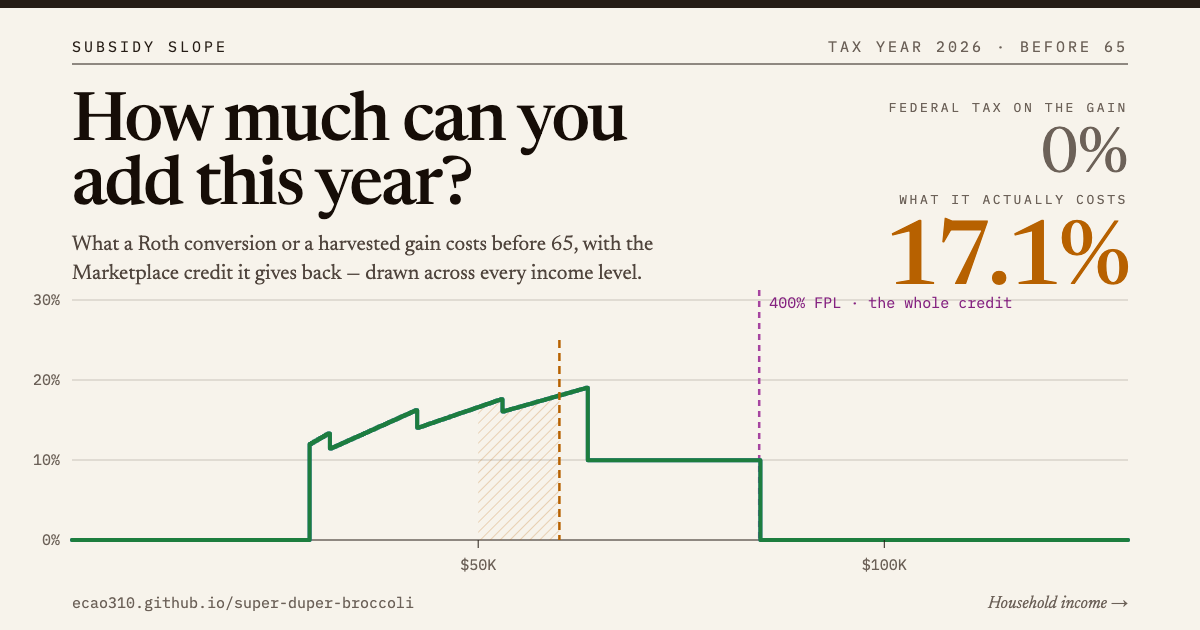
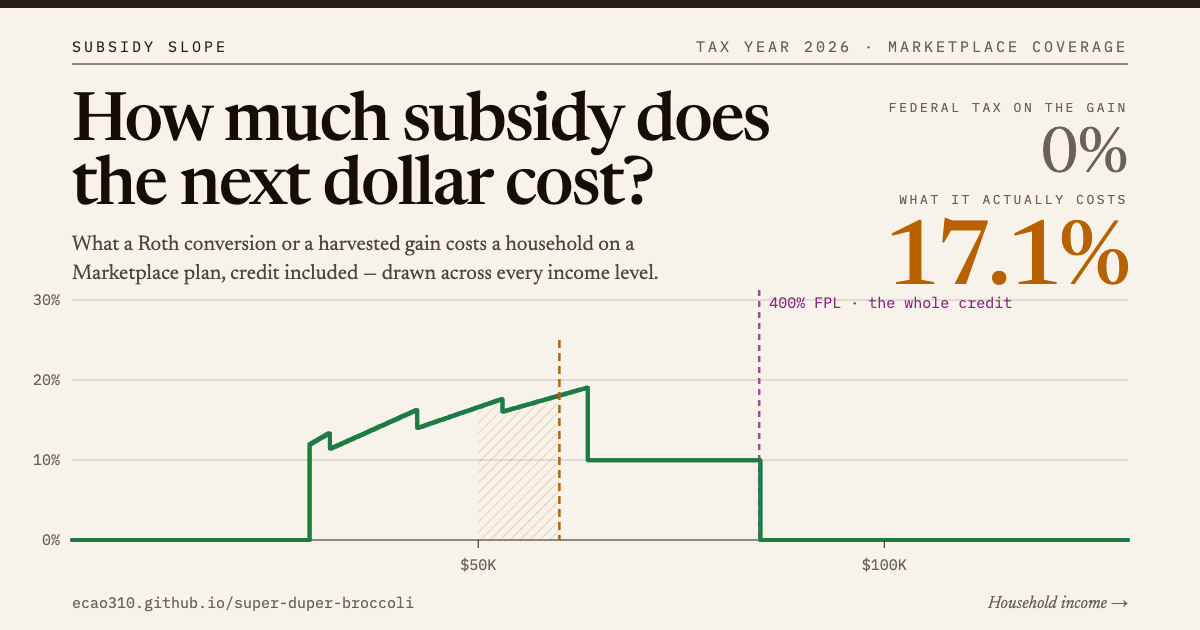
reframe to aca

diff --git a/index.html b/index.html
@@ -22,13 +22,13 @@
   <link rel="stylesheet"
     href="https://fonts.googleapis.com/css2?family=Newsreader:ital,opsz,wght@0,6..72,400..700;1,6..72,400..700&amp;family=IBM+Plex+Mono:wght@300;400;500;600&amp;display=swap" />
 
-  <title>Income Taxes in Early Retirement — Subsidy Slope</title>
+  <title>The ACA Subsidy Slope</title>
   <!-- The search result: a different surface from the share card below. It
        ends on the list of sections it promises, and `the search snippet` in
        src/guards/meta.test.ts reads that list back out and looks for each one
        in a heading the page actually renders. -->
   <meta name="description"
-    content="What a Roth conversion or a harvested gain really costs before 65, for your own household: the premium tax credit's slope, the 400% cliff and the floor.">
+    content="What a Roth conversion or a harvested gain really costs a household on a Marketplace plan: the premium tax credit's slope, the 400% cliff and the floor.">
 
   <!-- What the link looks like when it is sent rather than opened. The card
        is deliberately not the reader's own household: this is static files
@@ -38,21 +38,21 @@
        points at its own copy rather than production's. -->
   <meta property="og:type" content="website" />
   <meta property="og:site_name" content="Subsidy Slope" />
-  <meta property="og:title" content="How Much Can You Add This Year?" />
+  <meta property="og:title" content="How Much Subsidy Does the Next Dollar Cost?" />
   <meta property="og:description"
-    content="Before 65, every dollar you convert or harvest gives back a slice of your Marketplace credit — about 17 cents for a couple in the middle of the table, and all of it at 400% of the poverty line. Priced for your own household." />
+    content="Every dollar you convert or harvest while you buy coverage on the Marketplace gives back a slice of your premium tax credit — about 17 cents for a couple in the middle of the table, and all of it at 400% of the poverty line. Priced for your own household." />
   <meta property="og:url" content="https://ecao310.github.io%BASE_URL%" />
   <meta property="og:image" content="https://ecao310.github.io%BASE_URL%og-cover.png" />
   <meta property="og:image:type" content="image/png" />
   <meta property="og:image:width" content="1200" />
   <meta property="og:image:height" content="630" />
   <meta property="og:image:alt"
-    content="A chart of the all-in rate on the next dollar of household income before 65: nothing under the Medicaid floor, a sawtooth climbing from 11% to 19% through the applicable-percentage table, a 10% plateau from 300% to 400% of the poverty line, and a cliff at 400%." />
+    content="A chart of the all-in rate on the next dollar of household income for a household on a Marketplace plan: nothing under the Medicaid floor, a sawtooth climbing from 11% to 19% through the applicable-percentage table, a 10% plateau from 300% to 400% of the poverty line, and a cliff at 400%." />
 
   <meta name="twitter:card" content="summary_large_image" />
-  <meta name="twitter:title" content="How Much Can You Add This Year?" />
+  <meta name="twitter:title" content="How Much Subsidy Does the Next Dollar Cost?" />
   <meta name="twitter:description"
-    content="Before 65, every dollar you convert or harvest gives back a slice of your Marketplace credit — about 17 cents for a couple in the middle of the table, and all of it at 400% of the poverty line. Priced for your own household." />
+    content="Every dollar you convert or harvest while you buy coverage on the Marketplace gives back a slice of your premium tax credit — about 17 cents for a couple in the middle of the table, and all of it at 400% of the poverty line. Priced for your own household." />
   <meta name="twitter:image" content="https://ecao310.github.io%BASE_URL%og-cover.png" />
 </head>
 

diff --git a/src/components/Header.tsx b/src/components/Header.tsx
@@ -16,15 +16,14 @@ export interface HeaderProps {
 export const Header: React.FC<HeaderProps> = ({ linkNotes, onDismissNotes }) => (
   <header className="masthead">
     <div className="masthead-body">
-      <h1>Income Taxes in Early Retirement</h1>
+      <h1>The ACA Subsidy Slope</h1>
       <p className="subtitle">
-        Before 65, the next dollar of income rarely costs what its bracket
-        says either. A household buying its coverage on the Marketplace gives
-        back a slice of its premium tax credit with every dollar it adds
-        &mdash; around 17 cents for a couple in the middle of the table &mdash;
-        and the whole credit on the dollar that crosses 400% of the poverty
-        line. Use this tool to price a Roth conversion or a harvested gain
-        against the subsidy it costs.
+        A household that buys its coverage on the Marketplace gives back a
+        slice of its premium tax credit with every dollar of income it adds
+        &mdash; around 17 cents for a couple in the middle of the table,
+        whatever its tax bracket says &mdash; and the whole credit on the
+        dollar that crosses 400% of the poverty line. Use this tool to price a
+        Roth conversion or a harvested gain against the subsidy it costs.
       </p>
     </div>
 

diff --git a/src/guards/meta.test.tsx b/src/guards/meta.test.tsx
@@ -24,7 +24,7 @@ const meta = (attr: 'name' | 'property', key: string): string | undefined =>
 describe('the link preview', () => {
   it('names itself, describes itself and carries a card', () => {
     expect(meta('property', 'og:site_name')).toBe('Subsidy Slope');
-    expect(meta('property', 'og:title')).toBe('How Much Can You Add This Year?');
+    expect(meta('property', 'og:title')).toBe('How Much Subsidy Does the Next Dollar Cost?');
     expect(meta('property', 'og:description')).toMatch(/400% of the poverty line/);
     expect(meta('property', 'og:image')).toMatch(/og-cover\.png$/);
     expect(meta('property', 'og:image:width')).toBe('1200');

diff --git a/src/App.test.tsx b/src/App.test.tsx
@@ -21,7 +21,7 @@ pinPageYear();
 describe('the page', () => {
   it('leads with what the page is for rather than with the settings', () => {
     render(<App />);
-    const hero = screen.getByRole('heading', { name: /income taxes in early retirement/i, level: 1 });
+    const hero = screen.getByRole('heading', { name: /the aca subsidy slope/i, level: 1 });
     const subtitle = hero.nextElementSibling as HTMLElement;
     expect(subtitle).toHaveClass('subtitle');
     expect(subtitle).toHaveTextContent(/premium tax credit/);

diff --git a/src/lib/furtherReading.ts b/src/lib/furtherReading.ts
@@ -20,8 +20,7 @@ export interface Reading {
 export const FURTHER_READING: readonly Reading[] = [
   {
     href: 'https://www.reddit.com/r/financialindependence/comments/1w8a2nz/tax_optimization_in_early_retirement_maximizing/',
-    title:
-      'Tax optimization in early retirement: maximizing ACA subsidies vs. tax-gain harvesting or Roth conversions',
+    title: 'Maximizing ACA subsidies vs. tax-gain harvesting or Roth conversions',
     source: 'r/financialindependence',
   },
   {

diff --git a/src/lib/tax/scenario.ts b/src/lib/tax/scenario.ts
@@ -11,7 +11,7 @@ import type { AddedKind, FilingStatus, TaxYear } from './types';
 import { defaultTaxYear, filingParams } from './params';
 import type { FilingYearParams } from './params';
 
-/** The age the page opens on: an early retiree, some way short of Medicare. */
+/** The age the page opens on: some way short of Medicare, where the credit ends. */
 export const DEFAULT_AGE = 50;
 
 /**

diff --git a/README.md b/README.md
@@ -1,8 +1,9 @@
-# How Much Can You Add This Year?
+# How Much Subsidy Does the Next Dollar Cost?
 
-One more dollar of income before 65 — a Roth conversion, a harvested gain —
-gives back a slice of the premium tax credit that pays for a Marketplace
-plan. What that dollar actually costs is nothing like the bracket it lands in:
+One more dollar of income for a household that buys its coverage on the
+Marketplace — a Roth conversion, a harvested gain — gives back a slice of the
+premium tax credit that pays for the plan. What that dollar actually costs is
+nothing like the bracket it lands in:
 a couple whose federal tax is $0 pays 17 cents of it in credit, the rate
 climbs in a sawtooth to 19, drops to 10, and then the dollar that crosses 400%
 of the poverty line costs the whole credit at once.
@@ -14,10 +15,10 @@ the block the reader is thinking of adding.
 **Live:** https://ecao310.github.io/super-duper-broccoli/
 
 It follows [How Much Can You Take Out This Year?](https://ecao310.github.io/congenial-octo-spork/),
-which draws the same dollar after 65 — Social Security's tax torpedo, the
-IRMAA cliffs, the senior deduction's phaseout — and which drew the 400% line
-and left the loss blank, because the loss is the benchmark premium and that
-page never asked for one. This one asks, and prices the slope under the line
+which draws the same dollar once Social Security and Medicare are in the
+picture — the tax torpedo, the IRMAA cliffs, the senior deduction's phaseout —
+and which drew the 400% line and left the loss blank, because the loss is the
+benchmark premium and that page never asked for one. This one asks, and prices the slope under the line
 as well as the dollar over it. It began as an answer to a thread on
 r/financialindependence: a couple taking household income from $50,000 to
 $60,000 by harvesting a gain loses about $1,716 of credit, a 17% cost against
